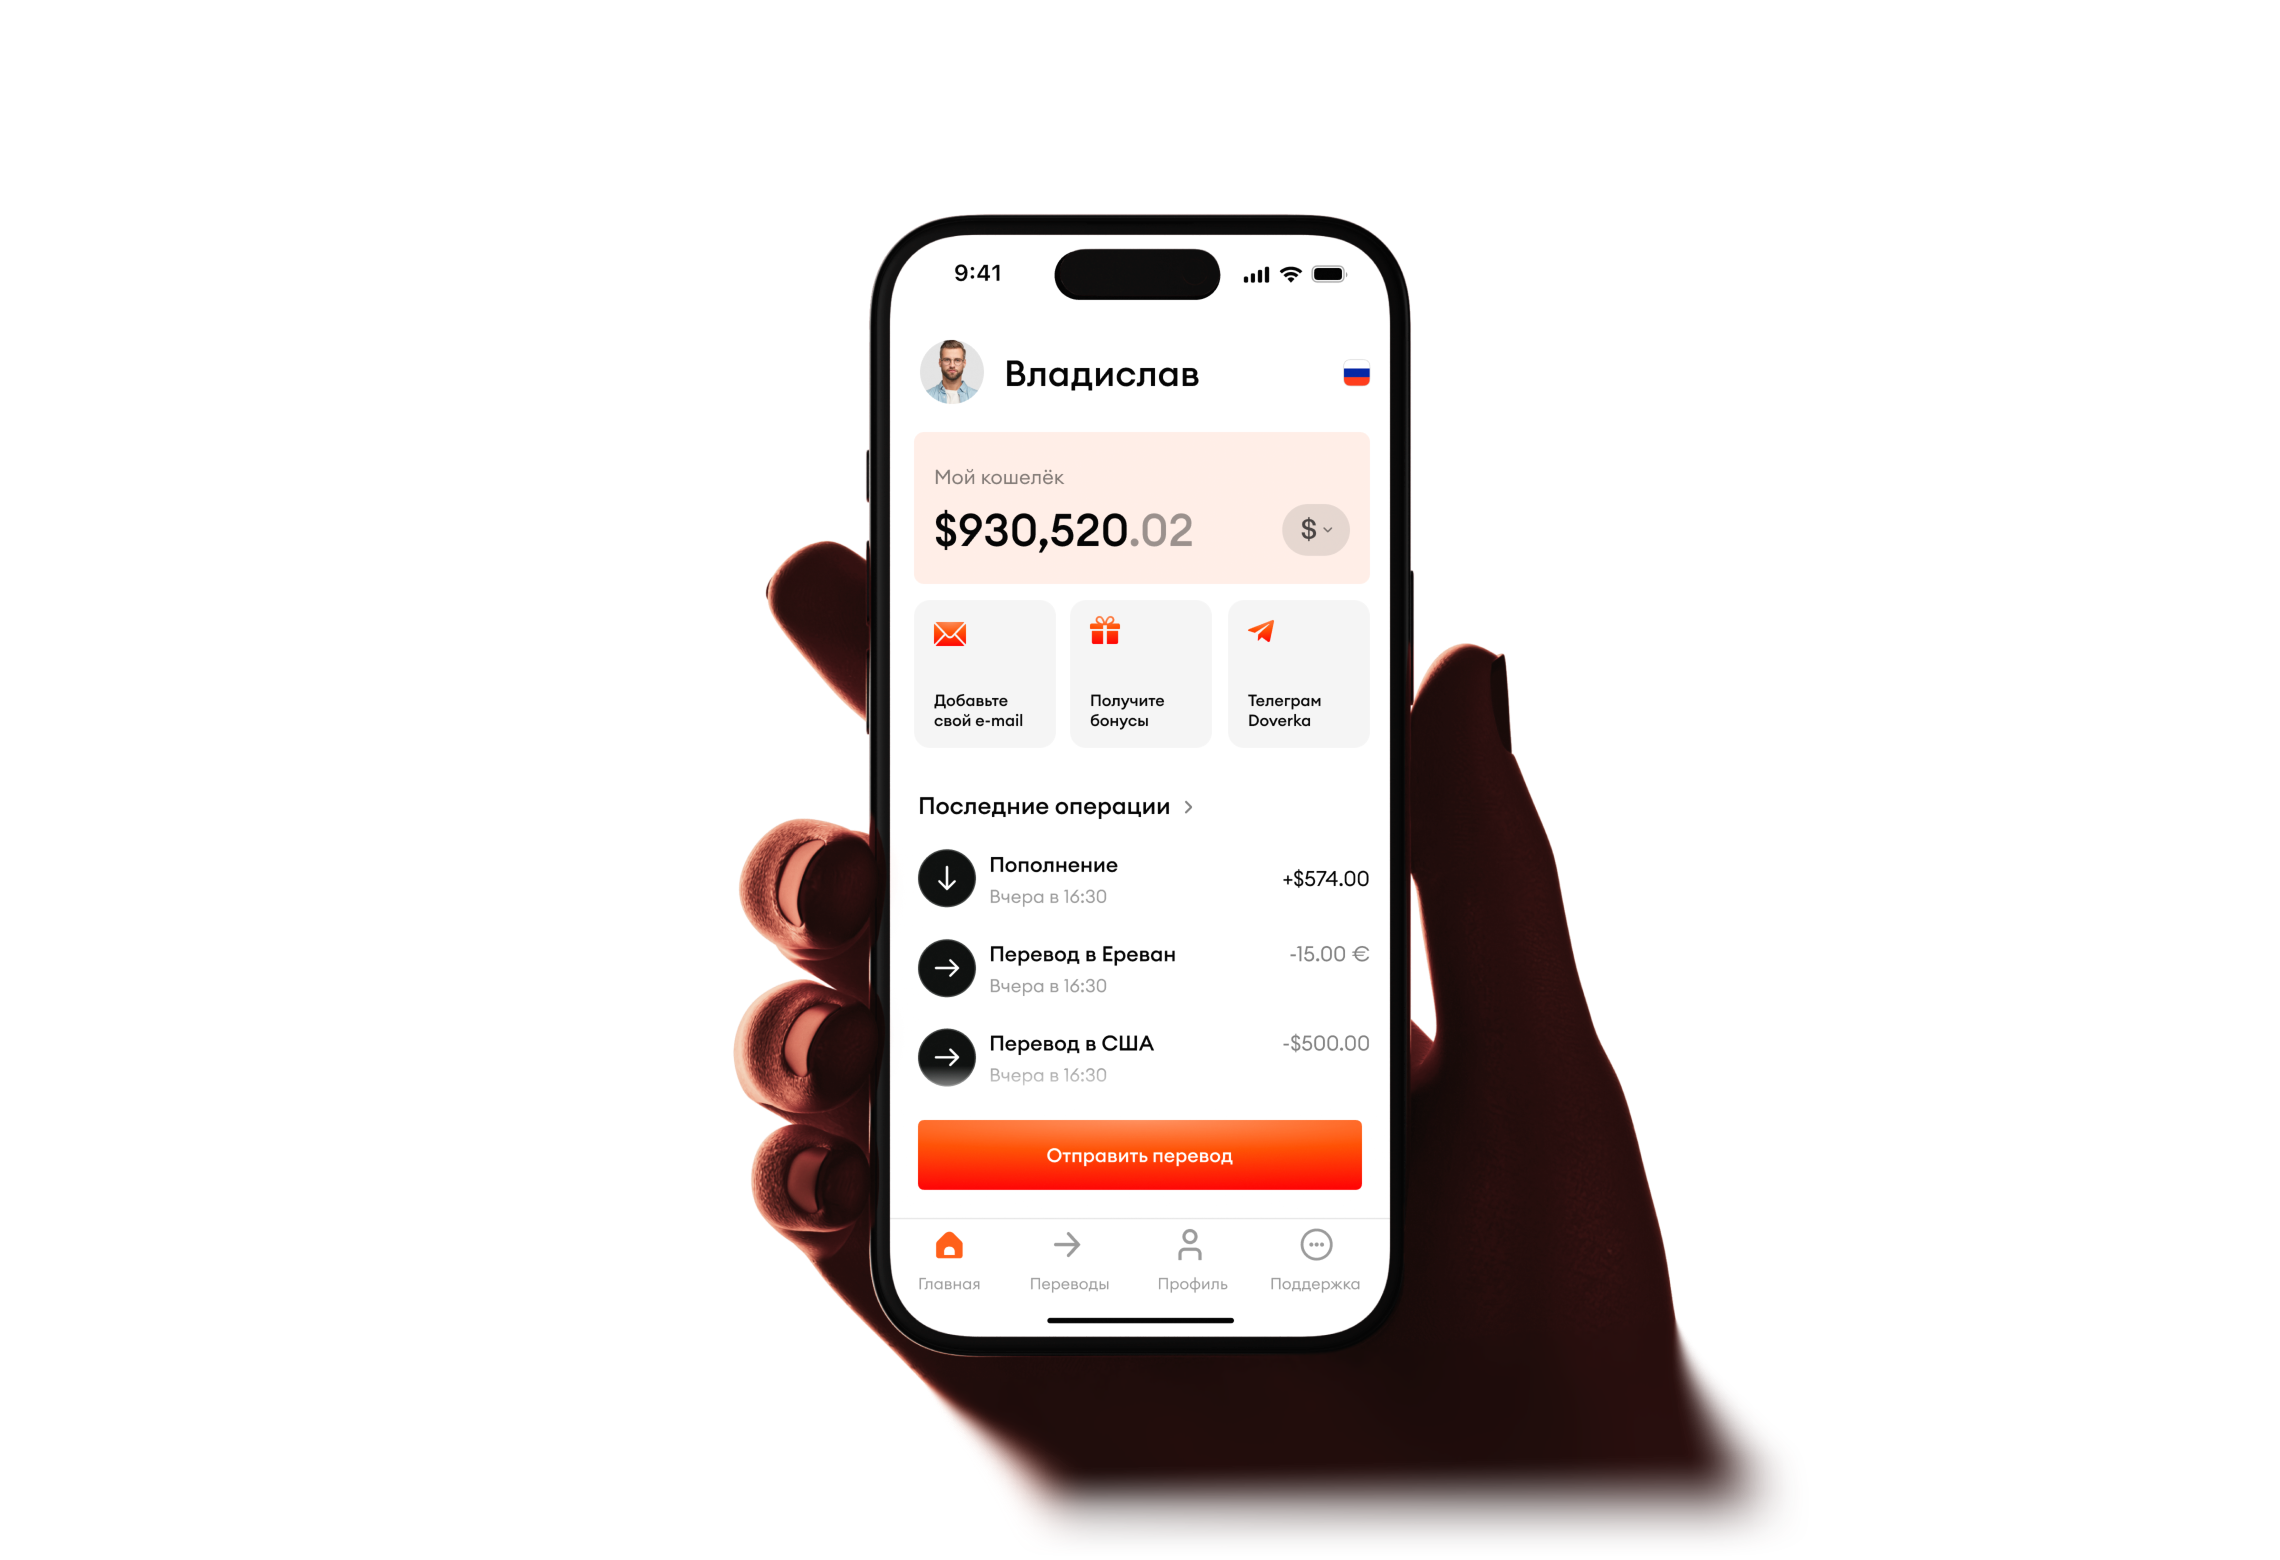
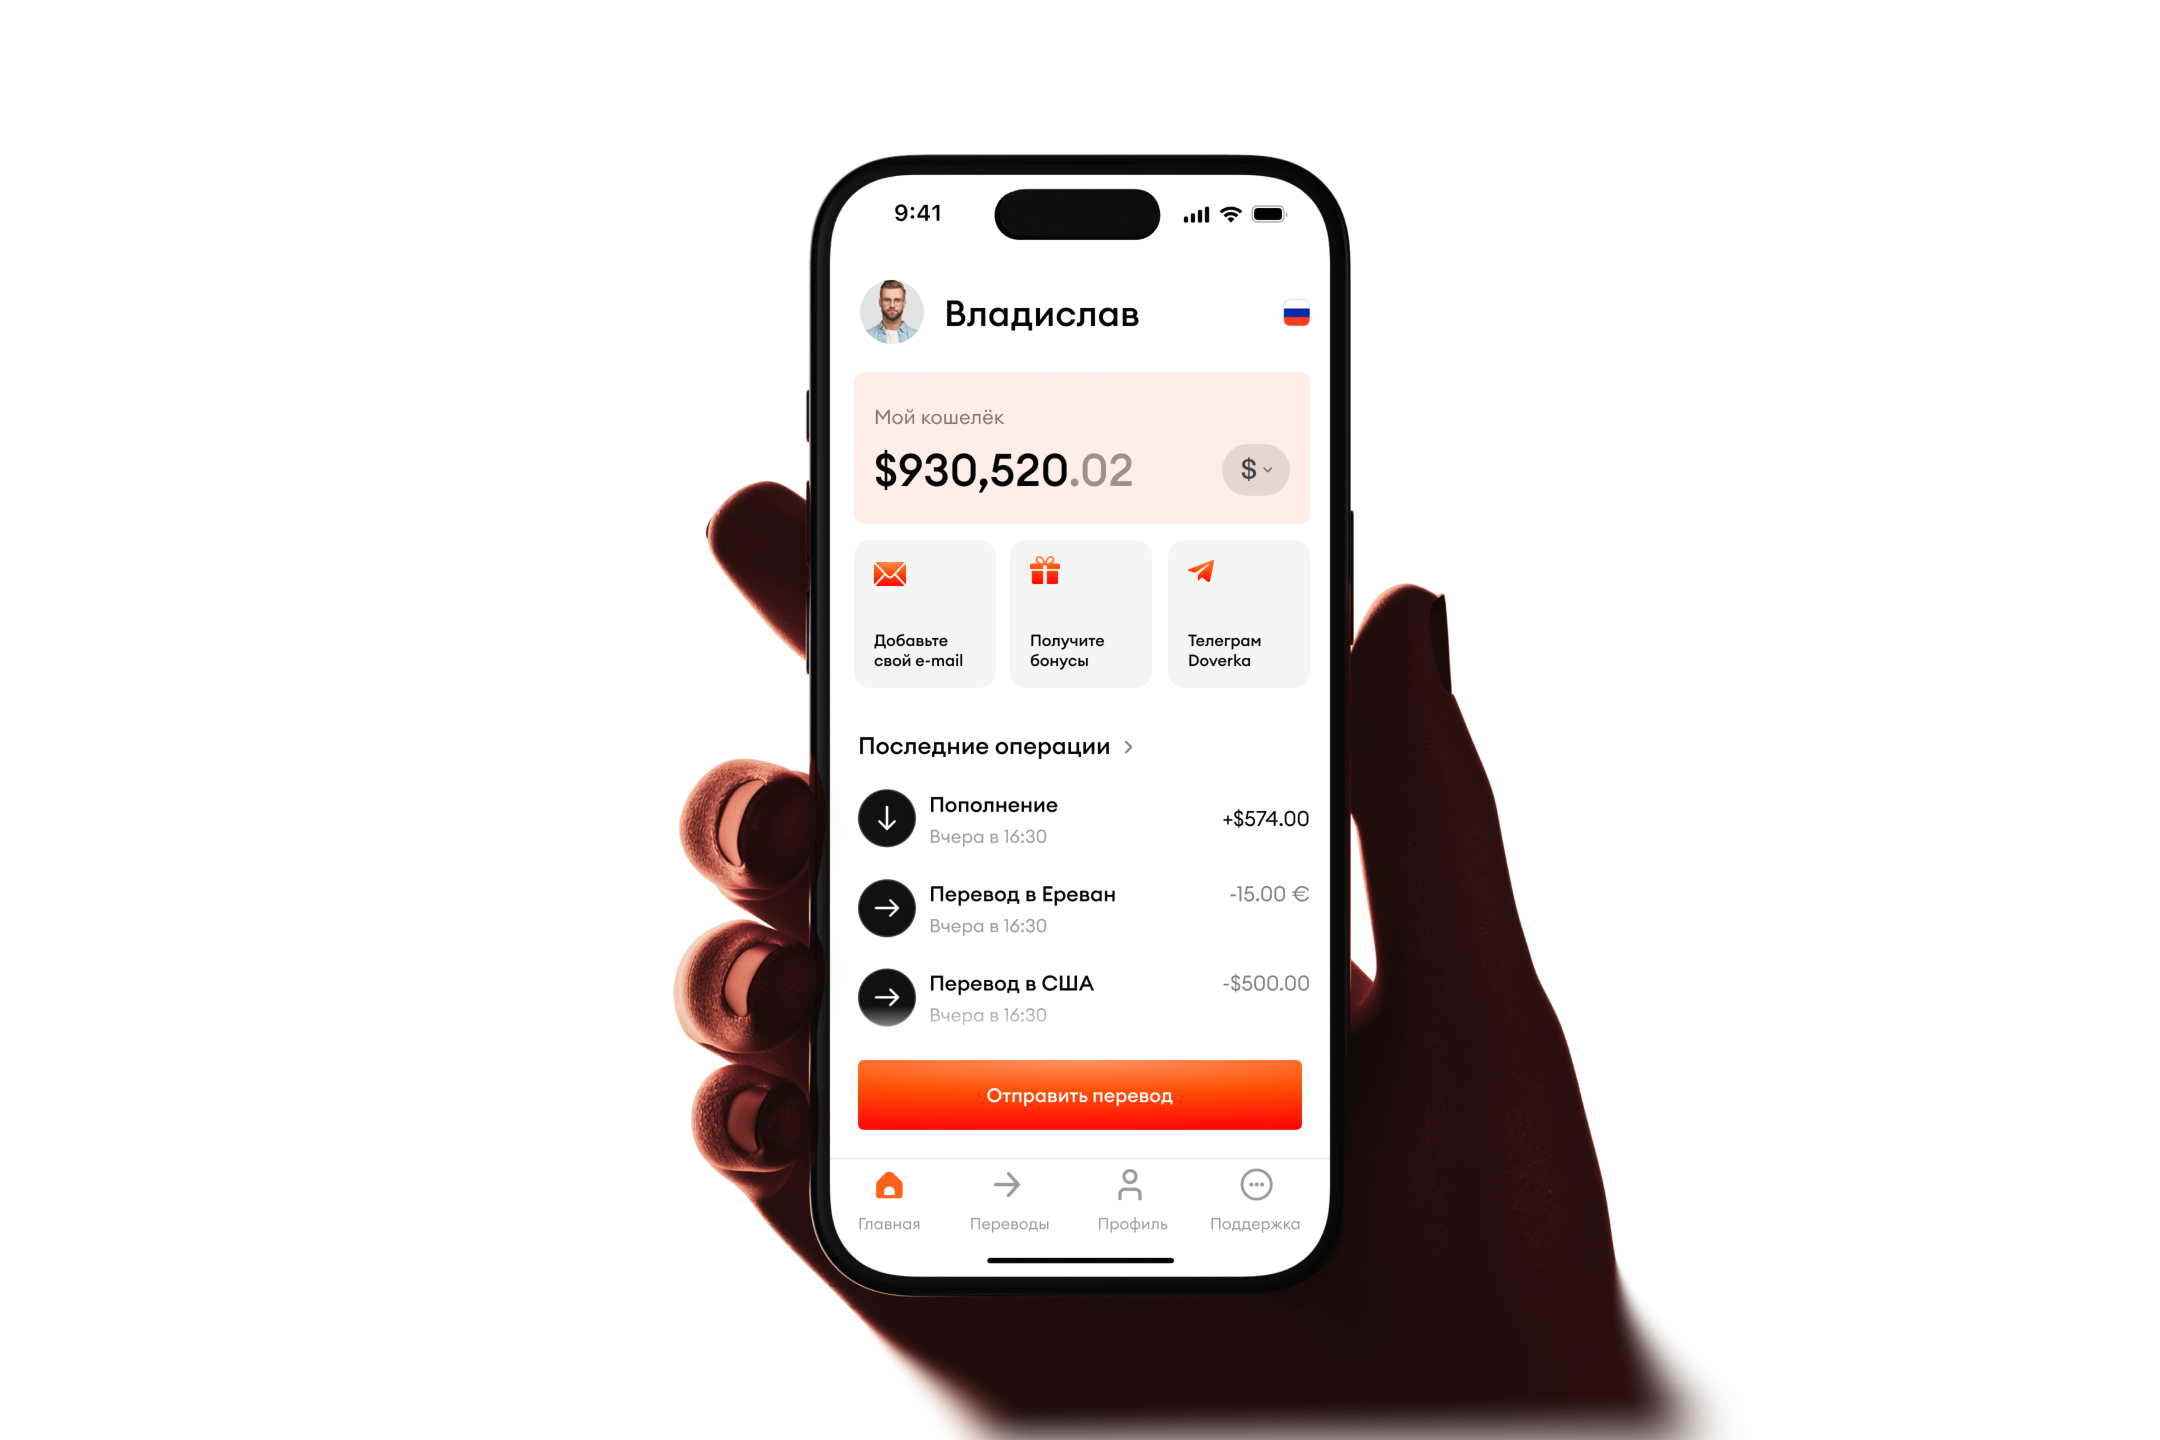
f

Changed region(s): [[0.3102, 0.0938, 0.8065, 1.0], [0.6824, 0.5312, 0.7134, 0.6875], [0.5273, 0.375, 0.5583, 0.4062]]

diff --git a/src/styles/global.css b/src/styles/global.css
@@ -46,17 +46,17 @@
 }
 
 @utility icon-shadow-desktop {
-  filter: drop-shadow(0px 19px 19px rgba(0, 0, 0, 0.15)) drop-shadow(0px 10px 14px rgba(0, 0, 0, 0.15));
+  filter: drop-shadow(0px 19px 19px rgba(0, 0, 0, 0.2)) drop-shadow(0px 10px 14px rgba(0, 0, 0, 0.15));
 }
 
 @utility icon-shadow-mobile {
-  filter: drop-shadow(0px 8px 16px rgba(0, 0, 0, 0.08)) drop-shadow(0px 4px 8px rgba(0, 0, 0, 0.2));
+  filter: drop-shadow(0px 8px 16px rgba(0, 0, 0, 0.25)) drop-shadow(0px 4px 8px rgba(0, 0, 0, 0.2));
 }
 
 .icon-shadow-desktop {
-  filter: drop-shadow(0px 19px 19px rgba(0, 0, 0, 0.15)) drop-shadow(0px 10px 14px rgba(0, 0, 0, 0.15));
+  filter: drop-shadow(0px 19px 19px rgba(0, 0, 0, 0.2)) drop-shadow(0px 10px 14px rgba(0, 0, 0, 0.15));
 }
 
 .icon-shadow-mobile {
-  filter: drop-shadow(0px 0px 16px rgba(0, 0, 0, 0.08)) drop-shadow(0px 0px 10px rgba(0, 0, 0, 0.2));
+  filter: drop-shadow(0px 12px 8px rgba(0, 0, 0, 0.2)) drop-shadow(0px 12px 24px rgba(0, 0, 0, 0.2));
 }
